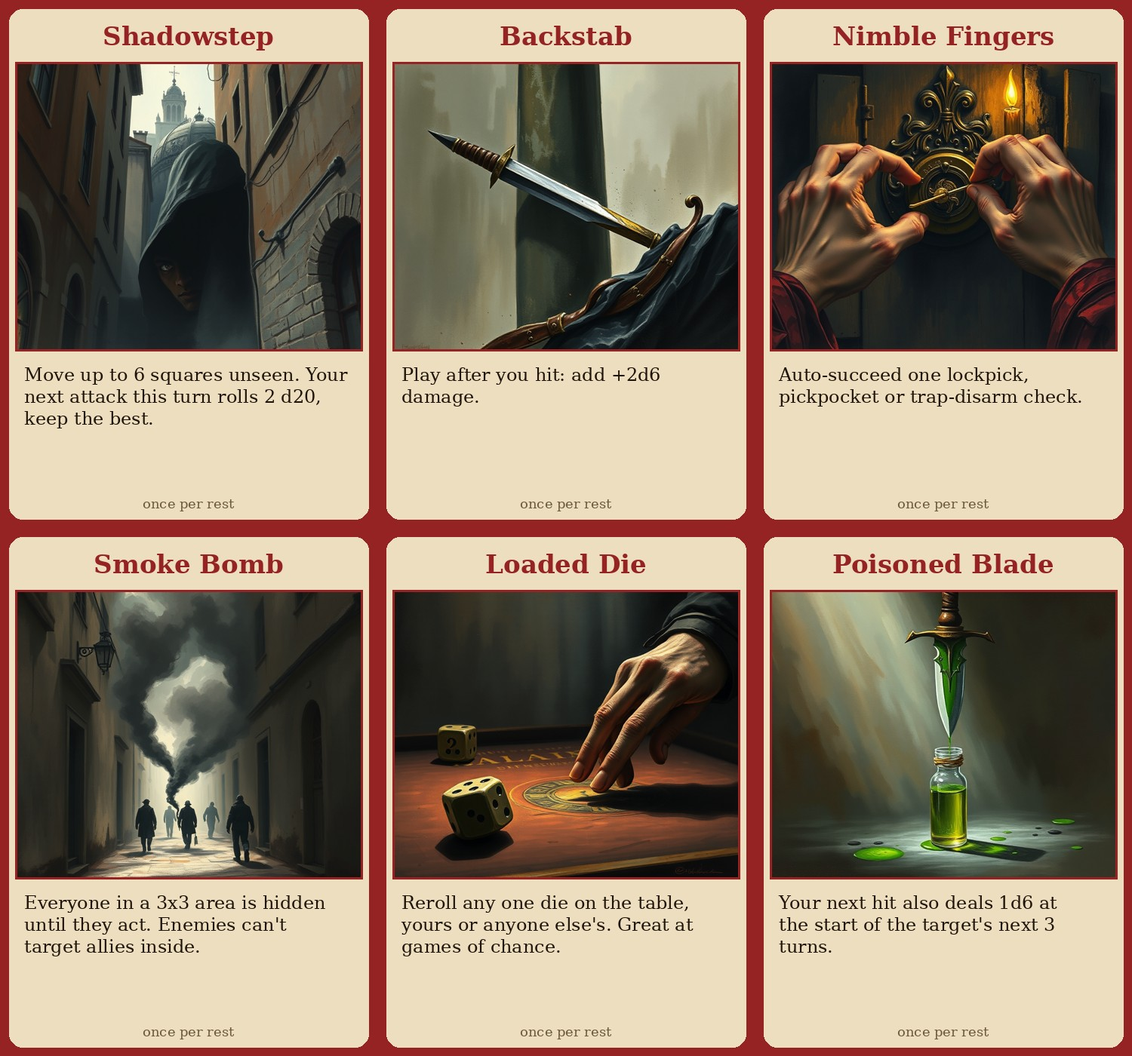
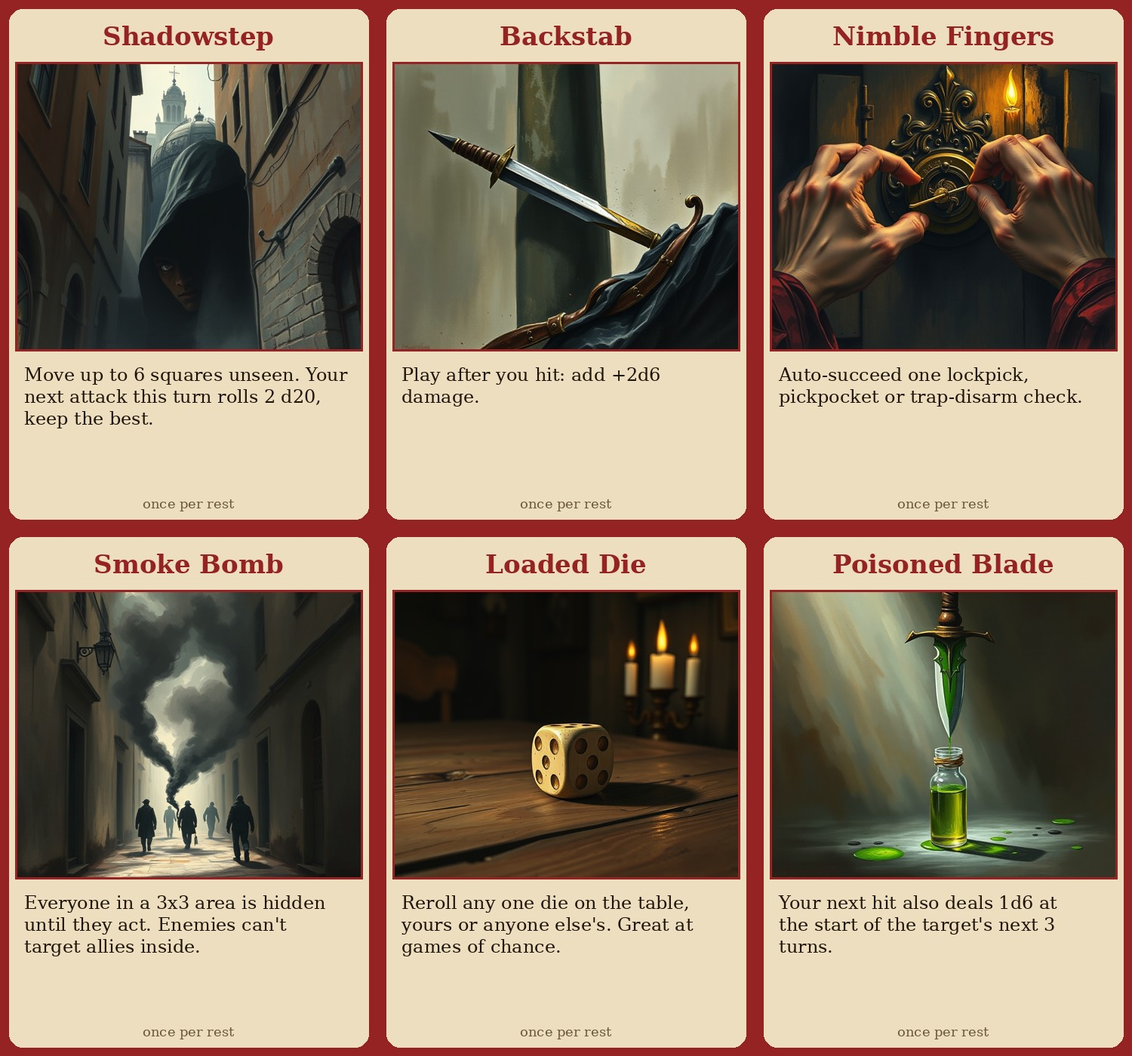
Fix review findings: layout, tile thickness, MoonSharp tonumber, card hands, re-rolled art

Changed region(s): [[0.3373, 0.5529, 0.6747, 0.8293]]

diff --git a/content.py b/content.py
@@ -25,7 +25,7 @@ HEROES = [
              ("Smoke Bomb", "Everyone in a 3x3 area is hidden until they act. Enemies can't target allies inside.",
               "a burst of thick grey smoke in a narrow street, silhouettes escaping"),
              ("Loaded Die", "Reroll any one die on the table, yours or anyone else's. Great at games of chance.",
-              "a single bone die glinting on a gambling table, hand sliding it"),
+              "close-up of a single ivory six-sided die with round pips on a worn wooden table, candlelight, blank table surface"),
              ("Poisoned Blade", "Your next hit also deals 1d6 at the start of the target's next 3 turns.",
               "a dagger dripping green poison over a vial"),
          ]),
@@ -52,7 +52,7 @@ HEROES = [
          stats=dict(Might=1, Agility=0, Wits=3),
          attacks=[("Mace", 3, "1d6+1", "melee"), ("Sacred flame", 5, "1d8+1", "range 8, ignores shields")],
          blurb="Battle priest of the Dawn. Keeps everyone breathing.",
-         portrait="a stout battle priestess with a mace and holy symbol, warm light, braided hair",
+         portrait="a stout middle-aged battle priestess in chainmail holding a flanged mace, a golden sun pendant on her chest, kind stern face, braided hair, warm light",
          cards=[
              ("Mending Touch", "Heal an adjacent ally 2d8+3.",
               "glowing hands pressed on a wounded shoulder, soft golden light"),
@@ -76,9 +76,9 @@ HEROES = [
              ("Fireball", "3x3 area: 3d6 fire, Agility DC 14 for half. Burns wicker shields to ash.",
               "a huge fireball exploding in a ruined street, wicker burning"),
              ("Tongues", "For this scene the whole party understands and speaks every language, including Giantish.",
-              "glowing runes flowing from a wizard's mouth, floating letters of light"),
+              "an old bearded human wizard speaking, ribbons of swirling golden light flowing from his mouth, calm wise face"),
              ("Levitate", "Lift yourself or one ally up to 10 squares straight up, and set them down gently.",
-              "a wizard floating up a tall dark cave shaft, robes billowing"),
+              "an old wizard levitating in mid-air inside a tall dark cave shaft, feet high above the ground, robes billowing, glowing aura"),
              ("Mirror Image", "Until the fight ends, every attack against you: roll a d6, on 1-3 it hits an illusion instead.",
               "three identical wizards shimmering side by side"),
              ("Frost Nova", "Enemies adjacent to you take 1d6 and can't move on their next turn.",
@@ -121,7 +121,7 @@ NPCS = {
         ("Pickpocket", 6, None, "steals 1 gold if it beats the target's Defense"),
     ], notes="Speaks only Dravic. Works for the Rat Count."),
     "refugee": dict(name="Refugee", fig="Figurine_Mara", hp=6, defense=10, attacks=[], notes="Hungry and scared."),
-    "noble": dict(name="Lady Oriska (noble)", fig="Figurine_Sir_Loin", hp=10, defense=12, attacks=[],
+    "noble": dict(name="Lady Oriska (noble)", fig="Figurine_Sir_Loin", flip=True, hp=10, defense=12, attacks=[],
                   notes="Pays 5 gold per carcass. Has a fat purse and a Healing Draught she'll trade for food."),
     "hunter": dict(name="Sewer hunter", fig="rpg_RANGER", hp=14, defense=13, attacks=[
         ("Short bow", 4, "1d8", "range 10"),
@@ -150,8 +150,11 @@ NPCS = {
                        dead=True),
     "princess": dict(name="Princess Isolde", fig="rpg_MAGE", hp=20, defense=12, attacks=[
         ("Moonfire", 6, "2d6", "range 10 (once she's healed)"),
-    ], notes="Wounded (lying down). Heal her or give her food and she stands. Right-click > toggle to stand.",
-        dead=True, tint=(1.0, 0.75, 0.85)),
+    ], notes="Wounded (lying down, 4 HP). Heal her with the damage box (e.g. -8) and she stands up.",
+        dead=True, start_hp=4, tint=(1.0, 0.75, 0.85)),
+    "giant_rat": dict(name="Giant rat", fig="rpg_RAT", hp=6, defense=12, attacks=[
+        ("Bite", 4, "1d6", "melee"),
+    ], notes="Only attacks if the bell trap rings or it's cornered."),
 }
 
 # ---------------------------------------------------------------- scenes
@@ -159,7 +162,7 @@ NPCS = {
 SCENES = [
     dict(key="title", title="The Giants of Holst", fog=False, music="title.mp3",
          map_prompt="a royal parchment map of a mountainous fantasy kingdom with a walled city in a valley, giants' mountains to the north",
-         heroes=[(-3, 0), (-1, 0), (1, 0), (3, 0)], npcs=[],
+         heroes=[(-3, -3), (-1, -3), (1, -3), (3, -3)], npcs=[],
          notes="""PARTY SELECT. Players click their adventurer on the pick panel (top of screen). One each.
 Read aloud:
   "By order of King Aldwin of Aldmere: Princess Isolde has not returned from Holst, in the
@@ -172,10 +175,10 @@ fenced in Holst by the thieves' guild. The giants came to take it back - and eve
 
     dict(key="outskirts", title="1. The Outskirts of Holst", fog=True, music="outskirts.mp3", battle=True,
          map_prompt="ruined medieval town street with broken houses, smashed carts, huge footprints in mud, scattered debris, a round sewer grate in the cobbles",
-         heroes=[(-10, -1), (-10, 0), (-10, 1), (-9, 0)],
+         heroes=[(-7, -1), (-7, 0), (-6, -1), (-6, 0)],
          npcs=[("street_kid", -4, 3), ("street_kid", -3, 4), ("street_kid", -5, 4),
-               ("giant_club", 9, 5), ("giant_eye", 10, 2), ("giant_troll", 9, -3), ("giant_club", 10, -5),
-               ("thrall", 7, 5), ("thrall", 8, 2), ("thrall", 7, -3)],
+               ("giant_club", 5, 3), ("giant_eye", 6, 0), ("giant_troll", 6, -3), ("giant_club", 3, 1),
+               ("thrall", 3, 4), ("thrall", 4, -1), ("thrall", 4, -3)],
          notes="""Read aloud: "Holst's gate hangs open. Doors are smashed in, from above. Footprints the size
 of a cart sink into the mud. Nothing moves - except three thin children watching you."
 Clues: roofs torn off; a door ripped out whole; granaries empty; a broken wicker shield bigger than a door.
@@ -186,15 +189,15 @@ STREET KIDS (Dravic only): hands out, "Pénz? Pénz?" (money). Fighter can make 
   - Ignore/threaten them -> they vanish; one tries to pickpocket (Pickpocket button).
 GIANTS: after a few minutes, ground shakes. Reveal the fog on the east side. Four giants round the
 corner with thralls on chains, wicker shields raised. THIS FIGHT IS MEANT TO BE FLED.
-  Switch to BATTLE music. Giants move 8, thralls 6. Let them feel the danger: first giant hit is big.
+  Switch to BATTLE music. Giants move 8 (hill giant 6), thralls 6. Let them feel the danger: first giant hit is big.
   Escape: the sewer grate (centre-south). Might DC 12 to lift, or the kids point at it and scatter.
   Anyone who jumps in: next scene."""),
 
     dict(key="sewer", title="2. The Sewer Warren", fog=True, music="sewer.mp3", rest=True,
          map_prompt="underground stone sewer cavern with a refugee camp, tents made of rags, small fires, a central channel of dark water, crates",
-         heroes=[(-10, 5), (-10, 4), (-9, 5), (-9, 4)],
+         heroes=[(-7, 4), (-7, 3), (-6, 4), (-6, 3)],
          npcs=[("refugee", -4, 2), ("refugee", -3, -1), ("refugee", 0, 3), ("refugee", 2, -4),
-               ("noble", 5, 1), ("hunter", 7, 2), ("hunter", 7, 0), ("carcass", 6, 1), ("carcass", 6, 0)],
+               ("noble", 4, 1), ("hunter", 8, 3), ("hunter", 8, 0), ("carcass", 6, 3), ("carcass", 6, 0)],
          notes="""Read aloud: "You drop into stink and darkness. Then - firelight. Hundreds of people live down here
 in rags and smoke. Holst didn't empty. It went underground."
 FOOD SCENE: two rough hunters drag in carcasses. A noblewoman (Lady Oriska) pays 5 gold EACH, loudly.
@@ -209,8 +212,8 @@ REST here is allowed (press REST): full HP, all cards back to hand."""),
 
     dict(key="den", title="3. The Rat Count's Den", fog=True, music="den.mp3",
          map_prompt="a smugglers den in an old underground cistern, a large round gambling table with candles, stolen furniture, rugs, crates of loot, a hidden door in the stone wall",
-         heroes=[(-10, -2), (-10, -1), (-9, -2), (-9, -1)],
-         npcs=[("rat_count", 2, 0), ("guard", 4, 2), ("guard", 4, -2), ("street_kid", -2, 4), ("street_kid", 0, -5)],
+         heroes=[(-7, -1), (-7, 0), (-6, -1), (-6, 0)],
+         npcs=[("rat_count", 2, 0), ("guard", 4, 2), ("guard", 4, -2), ("street_kid", 2, 2), ("street_kid", 2, -2)],
          notes="""Read aloud: "Stolen chandeliers, three rugs on top of each other, a velvet throne with the stuffing
 out. On it: a thin man in a noble's coat three sizes too big, rolling bones in one hand. Grev Vasko,
 the Rat Count. The street kids sit around him like cats."
@@ -219,7 +222,7 @@ RAT'S BONES (dice game) - best of 3 rounds:
   1. Each side rolls 3d6 (players use table dice; Vasko: his button).
   2. Each side may reroll ANY of their dice once (Vasko: reroll button per die).
   3. Rank: TRIPLE > STRAIGHT (e.g. 3-4-5) > PAIR (higher pair wins) > highest total.
-  One hero plays, others may "help" (cards: Loaded Die, Blessing +1d4 to one die).
+  One hero plays, others may "help" (cards: Loaded Die rerolls one die; Blessing adds +1d4 to the total).
   Stakes: party loses -> hand over all food and gold. Party wins -> he talks.
   THE RING: Vasko secretly rerolls once more per round with VASKO'S LUCKY RING (use its button).
     Wits DC 14 to notice his ring glowing when he rerolls. Calling it out: he laughs, sets it aside
@@ -235,9 +238,9 @@ IF THEY LOSE: take their food and gold. He still sells the info for "a favour": 
 If paid the kids earlier: Vasko starts friendly and the first round is given to the party."""),
 
     dict(key="passage", title="4. The Smugglers' Passage", fog=True, music="passage.mp3",
-         map_prompt="a long narrow winding stone tunnel dungeon corridor from left to right, cracked floor tiles, small side alcoves, old bones, dripping water, torch sconces",
-         heroes=[(-10, 0), (-10, 1), (-9, 0), (-9, 1)],
-         npcs=[],
+         map_prompt="a long stone dungeon corridor three squares wide crossing the entire image from left to right, rough cave rock filling the areas above and below the corridor, cracked flagstones, a skeleton, puddles, torch sconces on the walls",
+         heroes=[(-8, 0), (-8, 1), (-7, 0), (-7, 1)],
+         npcs=[("giant_rat", 8, 1), ("giant_rat", 8, -1)],
          notes="""Read aloud: "The door grinds shut behind you. The kid is gone. The tunnel runs west to east,
 narrow and old. Your torch shows scratches on the floor - and a skeleton still holding a torch."
 FOUR TRAPS, west to east. Wits DC 13 to spot each (Detect Magic reveals the gas vent's rune).
@@ -246,7 +249,7 @@ Disarm: Agility DC 13 (Nimble Fingers auto). Triggered effects:
   2. COLLAPSING FLOOR (column -1): 2x2 drops into a 3m pit. Agility DC 13 or fall, 1d6 +
      Might DC 12 to climb out (allies can help).
   3. SLEEP GAS VENT (column +4): Might DC 12 or sleep 1d4 minutes (real time is funny). Rune-marked.
-  4. BELL TRIPWIRE (column +8): harmless... unless it rings: 2 giant rats (use thrall stats) arrive.
+  4. BELL TRIPWIRE (column +8): harmless... unless it rings: the 2 giant rats at the east end attack.
 LOOT: the skeleton has a LANTERN OF TRUE SIGHT (magic: once, see through illusions/invisibility
 for a scene) - hint: the princess will be hard to see in the cave.
 Exit (far east): a hatch into a ditch well outside the city walls. Cart tracks in the mud."""),
@@ -255,7 +258,7 @@ Exit (far east): a hatch into a ditch well outside the city walls. Cart tracks i
          map_prompt="a muddy country road through a pine forest, a smashed wooden cart on its side, broken wheel, scattered crates and cloth, huge footprints, a tree trunk lying across the road",
          heroes=[(-10, -1), (-10, 0), (-10, 1), (-9, 0)],
          npcs=[("dead_thug", 0, 1), ("dead_thug", 1, -1), ("dead_thug", -1, -2),
-               ("log_giant", 9, 5), ("giant_club", 10, -2), ("giant_eye", 8, -6)],
+               ("log_giant", 9, 5, 45), ("giant_club", 10, -2, 35), ("giant_eye", 8, -6, 35)],
          notes="""Read aloud: "The tracks lead north into the pines. An hour later you find the cart - or what's
 left of it. It's been stamped flat. So have the men who drove it."
 INVESTIGATE (Wits DC 12): guild tokens (a black hand), a broken iron cage in the cart - empty, bent
@@ -264,24 +267,26 @@ GUILD LOCKBOX (under the cart, Agility DC 13 or cart keys): HEALING DRAUGHT (2d8
 (magic: works like Smoke Bomb, once).
 AMBUSH: when they're busy at the cart, a whole tree trunk flies out of the woods. Grask's LOG THROW
 opens the fight (2x2 on the cart). Switch to BATTLE music, reveal fog. 3 giants.
-Fight to win. Fire burns wicker shields. When 2 giants fall, the last one flees north-east (to the cave).
+These giants are already hurt from the cart fight (lower HP). Fire burns wicker shields.
+When the first giant falls the others hesitate; when the second falls the last one flees north-east (to the cave).
+If the party arrives badly hurt from the traps, let them REST at the passage exit first.
 After: tracks and blood lead to a cave in the hillside."""),
 
     dict(key="cave", title="6. The Last Stand Cave", fog=True, music="cave.mp3",
          map_prompt="inside a large dark natural cave, rocky floor, a tall shaft in the far wall rising into darkness, fallen weapons, a broken wicker shield, faint light from a crack above",
-         heroes=[(-10, -1), (-10, 0), (-10, 1), (-9, 0)],
+         heroes=[(-7, -1), (-7, 0), (-6, -1), (-6, 0)],
          npcs=[("dead_human", -3, 2), ("dead_human", -2, -2), ("dead_human", 0, 0), ("dying_giant", 8, -4),
-               ("princess", 9, 6)],
+               ("princess", 0, 6)],
          notes="""Read aloud: "The cave stinks of blood and smoke. The guild made their last stand here -
 three bodies around a burnt-out fire. In the corner, slumped against the rock, a giant. Still breathing."
 HROTHGUL (dying giant): speaks Giantish only. Tongues / Speak with the Dying lets them talk; Street Dravic
 gets a few words. He is not hostile, just dying. What he knows:
   - "The little thieves took the Hearthstone from our mountain. Our shrine is cold. We came for it."
   - "We found the little witch in the thieves' cage. She is the Pact-maker. We wanted her to speak for us."
-  - "The thieves fought. She... became a bird. White bird. Flew up." (points to the dark shaft)
+  - "The thieves fought. She... became a bird. White bird. Flew up." (points up the shaft to the north)
   - If healed/fed: "Tell your king: give back the Hearthstone and the mountains are quiet again."
   - He carries a GIANT'S TOOTH AMULET (magic: once, Might check auto-succeeds) and gives it if treated kindly.
-THE SHAFT (north-east): 10 squares straight up. Might DC 15 climb (fail: 1d6, try again), rope + one
+THE SHAFT (north, where the light comes in): 10 squares straight up. Might DC 15 climb (fail: 1d6, try again), rope + one
 climber, or LEVITATE. The LANTERN OF TRUE SIGHT shows her hiding place (otherwise Wits DC 14).
 ISOLDE: in a ledge up the shaft, human again, wounded but alive. Heal her or give her food (she stands).
 She keeps a shard of her MOONSTAFF (magic, gift to whoever reached her first: once, cast Fireball).

diff --git a/build.py b/build.py
@@ -63,7 +63,7 @@ def make_sheet(hero):
     d.text((600, 360), stats, font=font(36, True), fill=(30, 20, 10))
     d.text((600, 430), "ATTACKS  (d20 + bonus vs Defense)", font=font(26, True), fill=col)
     for n, (name, bonus, dmg, note) in enumerate(hero["attacks"]):
-        d.text((600, 475 + n * 45), f"{name}: {bonus:+d} to hit, {dmg} damage  ({note})", font=font(26), fill=(30, 20, 10))
+        d.text((600, 475 + n * 45), f"{name}: {bonus:+d} to hit, {dmg} damage  ({note})", font=font(24), fill=(30, 20, 10))
     wrap(d, (40, 600), RULES, 24, 105, spacing=8)
     return im
 
@@ -102,25 +102,27 @@ def obj(name, transform, **kw):
 
 
 def tile(url, transform, **kw):
+    transform["scaleY"] = 1.0   # keep tiles thin; scale only stretches X/Z
     return obj("Custom_Tile", transform, CustomImage={
         "ImageURL": url, "ImageSecondaryURL": "", "ImageScalar": 1.0, "WidthScale": 0.0,
         "CustomTile": {"Type": 0, "Thickness": 0.2, "Stackable": False, "Stretch": False}}, **kw)
 
 
-def npc(key, x, z, n, scene):
+def npc(key, x, z, n, scene, hp=None):
     t = NPCS[key]
+    hp = hp or t["hp"]
     attacks = [dict(name=a, hit=b, dmg=c, note=d) for a, b, c, d in t["attacks"]]
-    o = obj(t["fig"], tf(x * CELL, 2.0, z * CELL, ry=270.0 if x > 0 else 90.0),
-            GUID=guid(scene, key, n), Nickname=t["name"], Tags=["scene"],
-            GMNotes=t["notes"], Description=t["notes"] if not attacks else "")
+    ry = (270.0 if x > 0 else 90.0) + (180.0 if t.get("flip") else 0.0)   # flip: model faces backwards
+    o = obj(t["fig"], tf(x * CELL, 3.0, z * CELL, ry=ry),
+            GUID=guid(scene, key, n), Nickname=t["name"], Tags=["scene"], GMNotes=t["notes"])
     if t.get("dead"):
         o["RPGdead"] = True
     if t.get("tint"):
         o["ColorDiffuse"] = dict(zip("rgb", t["tint"]))
-    if attacks:
+    if attacks or not t.get("dead"):   # corpses and carcasses are props, everyone else gets a healthbar
         o["LuaScript"] = (ROOT / "npc.lua").read_text()
-        o["LuaScriptState"] = json.dumps({"name": t["name"], "hp": t["hp"], "max": t["hp"],
-                                          "def": t["defense"], "attacks": attacks})
+        o["LuaScriptState"] = json.dumps({"name": t["name"], "hp": t.get("start_hp", hp), "max": hp,
+                                          "def": t["defense"], "down": bool(t.get("dead")), "attacks": attacks})
     return o
 
 
@@ -131,12 +133,12 @@ def scene_data(s, base):
         spawns.append(obj("FogOfWar", {**tf(y=3.0), "scaleX": MAP_W + 2, "scaleY": 6.0, "scaleZ": MAP_W * 2 / 3 + 2},
                           GUID=guid(s["key"], "fog"), Tags=["scene", "fog", "pin"],
                           FogOfWar={"HideGmPointer": False, "HideObjects": True, "Height": 1.0, "RevealedLocations": {}}))
-    for n, (key, x, z) in enumerate(s["npcs"]):
-        spawns.append(npc(key, x, z, n, s["key"]))
+    for n, spec in enumerate(s["npcs"]):
+        spawns.append(npc(*spec[:3], n, s["key"], *spec[3:]))
     if s["key"] == "den":   # Rat's Bones dice on the gambling table
         spawns += [obj("Die_6", tf(-2.0 + i, 2.0, -1.5), GUID=guid("den", "die", i), Tags=["scene"]) for i in range(3)]
     return dict(title=s["title"], spawns=spawns,
-                heroes=[[x * CELL, 3.0, z * CELL] for x, z in s["heroes"]],
+                heroes=[[x * CELL, 4.0, z * CELL] for x, z in s["heroes"]],
                 music=dict(url=f"{base}music/{s['music']}", title=s["title"]))
 
 
@@ -151,7 +153,7 @@ def hero_objects(h, n, base):
     cdeck = {"FaceURL": face, "BackURL": f"{base}art/out/card_back.jpg", "NumWidth": 3, "NumHeight": 2,
              "BackIsHidden": True, "UniqueBack": False, "Type": 0}
     ids = [(n + 1) * 100 + i for i in range(6)]
-    cards = [obj("Card", tf(), CardID=cid, Nickname=title, Description=text, Tags=[f"card_{c}"],
+    cards = [obj("Card", tf(), CardID=cid, Hands=True, Nickname=title, Description=text, Tags=[f"card_{c}"],
                  CustomDeck={str(n + 1): cdeck}, GUID=guid(c, "card", i))
              for i, (cid, (title, text, _)) in enumerate(zip(ids, h["cards"]))]
     dice = [obj("Die_20", tf(sx + dx * 9, 2.0, z - 2), GUID=guid(c, "d20"), ColorDiffuse=dict(zip("rgb", [v / 255 for v in RGB[c]])))]
@@ -164,7 +166,7 @@ def hero_objects(h, n, base):
         obj("Counter", tf(sx + dx * 9, 1.5, z + 2, ry=ry), GUID=guid(c, "counter"), Nickname=f"{h['name']} HP",
             Counter={"value": h["hp"]}),
         obj("Deck", tf(sx - dx * 9, 2.0, z, ry=ry, rz=180.0), GUID=guid(c, "deck"), Nickname=f"{h['name']} cards",
-            DeckIDs=ids, CustomDeck={str(n + 1): cdeck}, ContainedObjects=cards, Tags=[f"card_{c}"]),
+            DeckIDs=ids, CustomDeck={str(n + 1): cdeck}, ContainedObjects=cards, Tags=[f"card_{c}"], Hands=True),
     ] + dice
 
 

diff --git a/test_lua.py b/test_lua.py
@@ -126,6 +126,12 @@ self = { UI = { setXml = function(x) xml = x end, setAttribute = function(i, k, 
          RPGFigurine = { die = function() died = died + 1 end, attack = function() swung = swung + 1 end } }
 function broadcastToAll(m) log[#log+1] = m end
 function broadcastToColor(m, c) log[#log+1] = c .. ": " .. m end
+-- MoonSharp (TTS) throws where real Lua returns nil when a base is given
+local _tonumber = tonumber
+function tonumber(v, base)
+  if base then assert(tostring(v):match("^%d+$"), "MoonSharp tonumber throws on " .. tostring(v)) end
+  return _tonumber(v, base)
+end
 """)
 npc.execute(giant["LuaScript"])
 ng.onLoad(giant["LuaScriptState"])
@@ -136,7 +142,9 @@ ng.applyDamage(None, "100")
 assert ng.died == 1 and "falls" in ng.log[1]
 ng.applyDamage(None, "-10")
 assert ng.died == 2 and ng.attrs["hp.text"].startswith("10/60")
-ng.applyDamage(None, "abc")                             # ignored
+for junk in ("abc", "", " ", "--3", None):              # ignored, no error
+    ng.applyDamage(None, junk)
+assert ng.attrs["hp.text"].startswith("10/60")
 for _ in range(200):
     ng.attack(npc.table_from({"color": "Black"}), None, "a1")
 msgs = list(ng.log.values())
@@ -144,4 +152,15 @@ assert all("to hit" in m and "dmg" in m for m in msgs[2:]) and ng.swung == 200
 for n in range(20):
     t, detail = ng.roll("2d8+4")
     assert 6 <= t <= 20 and detail.endswith("+4")
+
+# princess starts lying down at 4 HP; healing stands her up (one die() toggle), not the other way round
+scenes = json.loads(save["LuaScript"].split("[==[")[1].split("]==]")[0])["scenes"]
+isolde = next(o for s in scenes for o in s["spawns"] if o.get("Nickname") == "Princess Isolde")
+assert isolde["RPGdead"]
+npc.execute("died, log = 0, {}")
+ng.onLoad(isolde["LuaScriptState"])
+ng.applyDamage(None, "-8")
+assert ng.died == 1 and "gets back up" in ng.log[1] and ng.attrs["hp.text"].startswith("12/20")
+ng.applyDamage(None, "3")
+assert ng.died == 1                                      # still standing, no toggle
 print("ok -", msgs[-1])

diff --git a/gen_art.py b/gen_art.py
@@ -6,6 +6,7 @@ from content import HEROES, SCENES, STYLE, MAP_STYLE
 
 COMFY = "http://127.0.0.1:8188"
 RAW = Path(__file__).parent / "art" / "raw"
+REROLL = {"card_back": 1, "card_thief_4": 1, "card_wizard_1": 1, "card_wizard_2": 1, "portrait_healer": 1, "map_passage": 1}  # bump to get a new seed
 
 
 def jobs():
@@ -15,7 +16,7 @@ def jobs():
         yield f"portrait_{h['key']}", f"portrait of {h['portrait']}, {STYLE}", 768, 768
         for i, (_, _, prompt) in enumerate(h["cards"]):
             yield f"card_{h['key']}_{i}", f"{prompt}, {STYLE}", 768, 640
-    yield "card_back", f"ornate symmetrical card back pattern, a giant's footprint inside a crown, gold on deep red, {STYLE}", 640, 896
+    yield "card_back", f"ornate symmetrical celtic knotwork pattern, gold filigree on deep crimson leather, no symbols, {STYLE}", 640, 896
 
 
 def workflow(prompt, w, h, seed):
@@ -53,5 +54,5 @@ if __name__ == "__main__":
     for seed, (name, prompt, w, h) in enumerate(jobs()):
         out = RAW / f"{name}.png"
         if not out.exists():
-            out.write_bytes(render(prompt, w, h, 1000 + seed))
+            out.write_bytes(render(prompt, w, h, 1000 + seed + 100 * REROLL.get(name, 0)))
             print("rendered", name)

diff --git a/GM_GUIDE.md b/GM_GUIDE.md
@@ -74,7 +74,8 @@ Stats: Might (force, climbing, lifting), Agility (sneak, dodge, lockpick), Wits 
 - **Trampled guildsman** HP 1, Def 1. . Thieves' guild. Search: 3 gold, a guild token, cart keys.
 - **Hrothgul, dying giant** HP 6, Def 8. Feeble swipe (+3, 1d6, only if attacked). Speaks only Giantish (Tongues / Speak with the Dying / Street Dravic badly). See scene notes.
 - **Fallen guildsman** HP 1, Def 1. . Died fighting.
-- **Princess Isolde** HP 20, Def 12. Moonfire (+6, 2d6, range 10 (once she's healed)). Wounded (lying down). Heal her or give her food and she stands. Right-click > toggle to stand.
+- **Princess Isolde** HP 20, Def 12. Moonfire (+6, 2d6, range 10 (once she's healed)). Wounded (lying down, 4 HP). Heal her with the damage box (e.g. -8) and she stands up.
+- **Giant rat** HP 6, Def 12. Bite (+4, 1d6, melee). Only attacks if the bell trap rings or it's cornered.
 
 ## The Giants of Holst
 
@@ -103,7 +104,7 @@ STREET KIDS (Dravic only): hands out, "Pénz? Pénz?" (money). Fighter can make 
   - Ignore/threaten them -> they vanish; one tries to pickpocket (Pickpocket button).
 GIANTS: after a few minutes, ground shakes. Reveal the fog on the east side. Four giants round the
 corner with thralls on chains, wicker shields raised. THIS FIGHT IS MEANT TO BE FLED.
-  Switch to BATTLE music. Giants move 8, thralls 6. Let them feel the danger: first giant hit is big.
+  Switch to BATTLE music. Giants move 8 (hill giant 6), thralls 6. Let them feel the danger: first giant hit is big.
   Escape: the sewer grate (centre-south). Might DC 12 to lift, or the kids point at it and scatter.
   Anyone who jumps in: next scene.
 ```
@@ -135,7 +136,7 @@ RAT'S BONES (dice game) - best of 3 rounds:
   1. Each side rolls 3d6 (players use table dice; Vasko: his button).
   2. Each side may reroll ANY of their dice once (Vasko: reroll button per die).
   3. Rank: TRIPLE > STRAIGHT (e.g. 3-4-5) > PAIR (higher pair wins) > highest total.
-  One hero plays, others may "help" (cards: Loaded Die, Blessing +1d4 to one die).
+  One hero plays, others may "help" (cards: Loaded Die rerolls one die; Blessing adds +1d4 to the total).
   Stakes: party loses -> hand over all food and gold. Party wins -> he talks.
   THE RING: Vasko secretly rerolls once more per round with VASKO'S LUCKY RING (use its button).
     Wits DC 14 to notice his ring glowing when he rerolls. Calling it out: he laughs, sets it aside
@@ -162,7 +163,7 @@ Disarm: Agility DC 13 (Nimble Fingers auto). Triggered effects:
   2. COLLAPSING FLOOR (column -1): 2x2 drops into a 3m pit. Agility DC 13 or fall, 1d6 +
      Might DC 12 to climb out (allies can help).
   3. SLEEP GAS VENT (column +4): Might DC 12 or sleep 1d4 minutes (real time is funny). Rune-marked.
-  4. BELL TRIPWIRE (column +8): harmless... unless it rings: 2 giant rats (use thrall stats) arrive.
+  4. BELL TRIPWIRE (column +8): harmless... unless it rings: the 2 giant rats at the east end attack.
 LOOT: the skeleton has a LANTERN OF TRUE SIGHT (magic: once, see through illusions/invisibility
 for a scene) - hint: the princess will be hard to see in the cave.
 Exit (far east): a hatch into a ditch well outside the city walls. Cart tracks in the mud.
@@ -179,7 +180,9 @@ GUILD LOCKBOX (under the cart, Agility DC 13 or cart keys): HEALING DRAUGHT (2d8
 (magic: works like Smoke Bomb, once).
 AMBUSH: when they're busy at the cart, a whole tree trunk flies out of the woods. Grask's LOG THROW
 opens the fight (2x2 on the cart). Switch to BATTLE music, reveal fog. 3 giants.
-Fight to win. Fire burns wicker shields. When 2 giants fall, the last one flees north-east (to the cave).
+These giants are already hurt from the cart fight (lower HP). Fire burns wicker shields.
+When the first giant falls the others hesitate; when the second falls the last one flees north-east (to the cave).
+If the party arrives badly hurt from the traps, let them REST at the passage exit first.
 After: tracks and blood lead to a cave in the hillside.
 ```
 
@@ -192,10 +195,10 @@ HROTHGUL (dying giant): speaks Giantish only. Tongues / Speak with the Dying let
 gets a few words. He is not hostile, just dying. What he knows:
   - "The little thieves took the Hearthstone from our mountain. Our shrine is cold. We came for it."
   - "We found the little witch in the thieves' cage. She is the Pact-maker. We wanted her to speak for us."
-  - "The thieves fought. She... became a bird. White bird. Flew up." (points to the dark shaft)
+  - "The thieves fought. She... became a bird. White bird. Flew up." (points up the shaft to the north)
   - If healed/fed: "Tell your king: give back the Hearthstone and the mountains are quiet again."
   - He carries a GIANT'S TOOTH AMULET (magic: once, Might check auto-succeeds) and gives it if treated kindly.
-THE SHAFT (north-east): 10 squares straight up. Might DC 15 climb (fail: 1d6, try again), rope + one
+THE SHAFT (north, where the light comes in): 10 squares straight up. Might DC 15 climb (fail: 1d6, try again), rope + one
 climber, or LEVITATE. The LANTERN OF TRUE SIGHT shows her hiding place (otherwise Wits DC 14).
 ISOLDE: in a ledge up the shaft, human again, wounded but alive. Heal her or give her food (she stands).
 She keeps a shard of her MOONSTAFF (magic, gift to whoever reached her first: once, cast Fireball).
